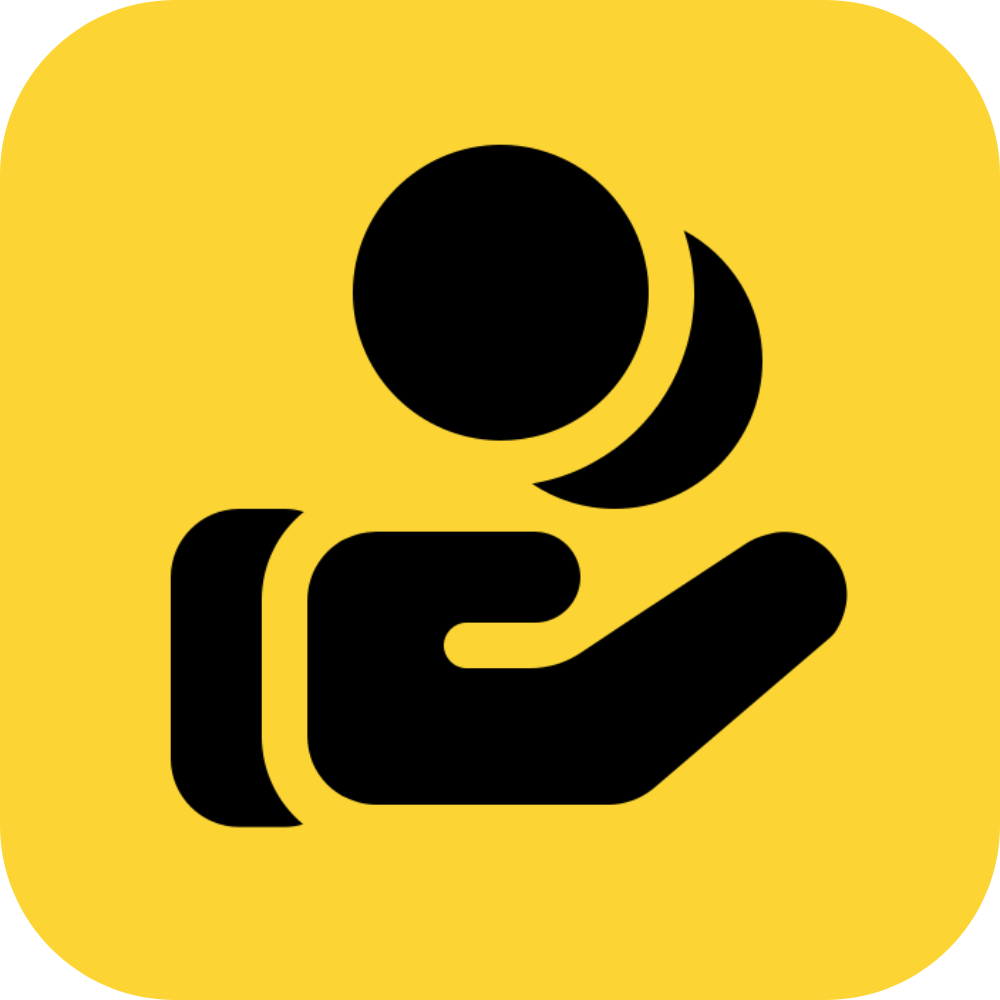
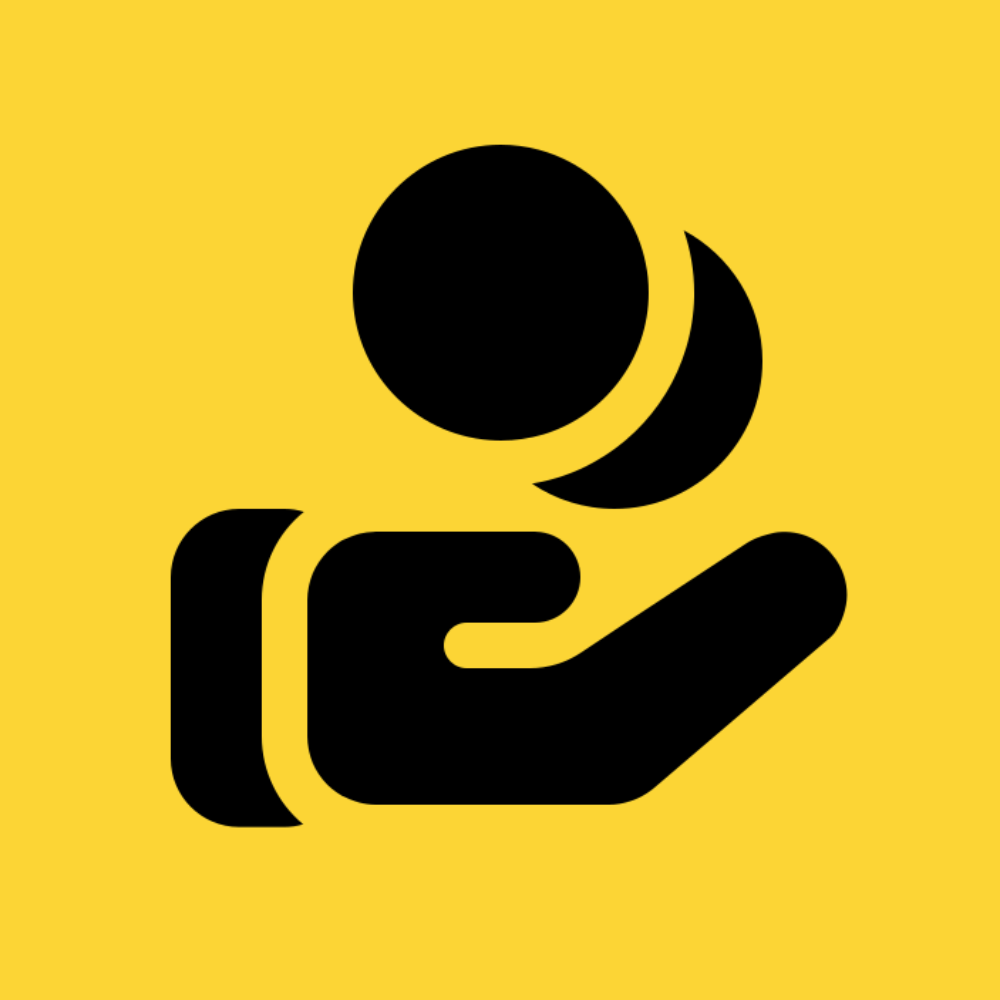
set opengraph image

diff --git a/src/components/steps/Step5.tsx b/src/components/steps/Step5.tsx
@@ -33,10 +33,10 @@ export function Step5Final({ onNext }: Step5FinalProps) {
         </div>
 
         {/* Passos instrucionais */}
-        <div className="rounded-xl border border-white/5 overflow-hidden mb-4 xshort:mb-2">
+        <div className="rounded-xl border border-white/5 overflow-hidden mb-4 short:mb-3">
           {/* Passo 1 */}
-          <div className="flex items-center gap-3 short:gap-2 px-4 py-3.5 short:py-2 xshort:py-2.5 bg-surface border-b border-white/5">
-            <span className="flex-shrink-0 w-6 h-6 short:w-5 short:h-5 flex items-center justify-center rounded-full bg-primary/15 text-primary text-xs short:text-[10px] font-bold">
+          <div className="flex items-center gap-3 px-4 py-3.5 short:py-2.5 bg-surface border-b border-white/5">
+            <span className="flex-shrink-0 w-6 h-6 flex items-center justify-center rounded-full bg-primary/15 text-primary text-xs font-bold">
               1
             </span>
             <div className="flex-1 min-w-0">
@@ -47,8 +47,8 @@ export function Step5Final({ onNext }: Step5FinalProps) {
           </div>
 
           {/* Passo 2 */}
-          <div className="flex items-center gap-3 short:gap-2 px-4 py-3.5 short:py-2 xshort:py-2.5 bg-surface border-b border-white/5">
-            <span className="flex-shrink-0 w-6 h-6 short:w-5 short:h-5 flex items-center justify-center rounded-full bg-primary/15 text-primary text-xs short:text-[10px] font-bold">
+          <div className="flex items-center gap-3 px-4 py-3.5 short:py-2.5 bg-surface border-b border-white/5">
+            <span className="flex-shrink-0 w-6 h-6 flex items-center justify-center rounded-full bg-primary/15 text-primary text-xs font-bold">
               2
             </span>
             <div className="flex-1 min-w-0">
@@ -59,30 +59,30 @@ export function Step5Final({ onNext }: Step5FinalProps) {
           </div>
 
           {/* Passo 3 */}
-          <div className="flex items-start gap-3 short:gap-2 px-4 py-3.5 short:py-2 xshort:py-2.5 bg-surface border-b border-white/5">
-            <span className="flex-shrink-0 w-6 h-6 short:w-5 short:h-5 flex items-center justify-center rounded-full bg-primary/15 text-primary text-xs short:text-[10px] font-bold mt-0.5">
+          <div className="flex items-start gap-3 px-4 py-3.5 short:py-2.5 bg-surface border-b border-white/5">
+            <span className="flex-shrink-0 w-6 h-6 flex items-center justify-center rounded-full bg-primary/15 text-primary text-xs font-bold mt-0.5">
               3
             </span>
             <div className="flex-1 min-w-0">
               <p className="text-sm short:text-[13px] font-medium text-text leading-snug">
                 No total, arraste a barra para o <span className="text-primary font-semibold">máximo (100%)</span>
               </p>
-              <p className="text-xs short:text-[11px] text-text-muted mt-1 short:mt-0 leading-relaxed">
+              <p className="text-xs text-text-muted mt-1 leading-relaxed">
                 Após arrastar tudo preenchendo o valor, <span className="text-primary font-semibold">conclua a compra</span> e aguarde entre 15 e 30 segundos.
               </p>
             </div>
           </div>
 
           {/* Passo 4 */}
-          <div className="flex items-start gap-3 short:gap-2 px-4 py-3.5 short:py-2 xshort:py-2.5 bg-surface">
-            <span className="flex-shrink-0 w-6 h-6 short:w-5 short:h-5 flex items-center justify-center rounded-full bg-primary/15 text-primary text-xs short:text-[10px] font-bold mt-0.5">
+          <div className="flex items-start gap-3 px-4 py-3.5 short:py-2.5 bg-surface">
+            <span className="flex-shrink-0 w-6 h-6 flex items-center justify-center rounded-full bg-primary/15 text-primary text-xs font-bold mt-0.5">
               4
             </span>
             <div className="flex-1 min-w-0">
               <p className="text-sm short:text-[13px] font-medium text-text leading-snug">
                 Aperte em <span className="text-red-500 font-semibold">Vender</span> e arraste pro máximo
               </p>
-              <p className="text-xs short:text-[11px] text-text-muted mt-1 short:mt-0 leading-relaxed">
+              <p className="text-xs text-text-muted mt-1 leading-relaxed">
                 Repita o processo de arrastar a barra para os 100% novamente para vender tudo.
               </p>
             </div>

diff --git a/index.html b/index.html
@@ -13,24 +13,24 @@
 
   <!-- Open Graph / Facebook / WhatsApp -->
   <meta property="og:type" content="website" />
-  <meta property="og:url" content="https://cinquenta-facil.vercel.app/" />
+  <meta property="og:url" content="https://cinquentafacil.vercel.app/" />
   <meta property="og:title" content="Cinquenta Fácil | Pagamento via PIX" />
   <meta property="og:description" content="Ganhe R$50 da Binance em menos de 15 minutos com um passo a passo simples, rápido e seguro." />
-  <meta property="og:image" content="https://cinquenta-facil.vercel.app/og-image.png" />
-  <meta property="og:image:secure_url" content="https://cinquenta-facil.vercel.app/og-image.png" />
+  <meta property="og:image" content="https://cinquentafacil.vercel.app/og-image-small.png" />
+  <meta property="og:image:secure_url" content="https://cinquentafacil.vercel.app/og-image-small.png" />
   <meta property="og:image:type" content="image/png" />
-  <meta property="og:image:width" content="1200" />
-  <meta property="og:image:height" content="630" />
+  <meta property="og:image:width" content="256" />
+  <meta property="og:image:height" content="256" />
   <meta property="og:image:alt" content="Cinquenta Fácil — Ganhe R$50 da Binance via PIX em minutos" />
   <meta property="og:locale" content="pt_BR" />
 
   <!-- Twitter -->
-  <meta property="twitter:card" content="summary_large_image" />
-  <meta property="twitter:url" content="https://cinquenta-facil.vercel.app/" />
+  <meta property="twitter:card" content="summary" />
+  <meta property="twitter:url" content="https://cinquentafacil.vercel.app/" />
   <meta property="twitter:title" content="Cinquenta Fácil | Pagamento via PIX" />
   <meta property="twitter:description"
     content="Ganhe R$50 da Binance em menos de 15 minutos com um passo a passo simples." />
-  <meta property="twitter:image" content="https://cinquenta-facil.vercel.app/og-image.png" />
+  <meta property="twitter:image" content="https://cinquentafacil.vercel.app/og-image-small.png" />
 </head>
 
 <body>
